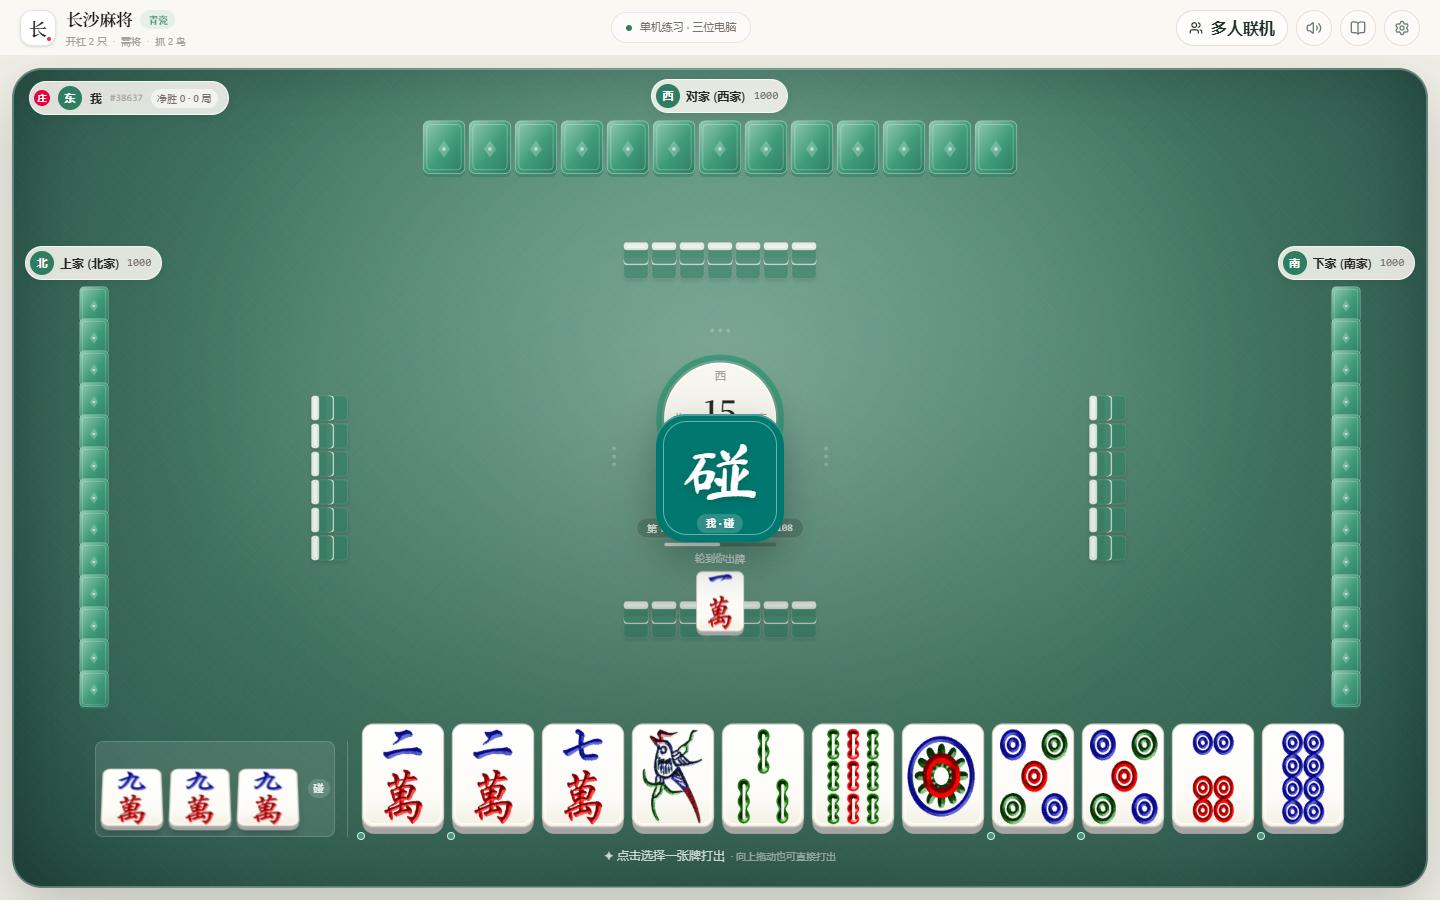
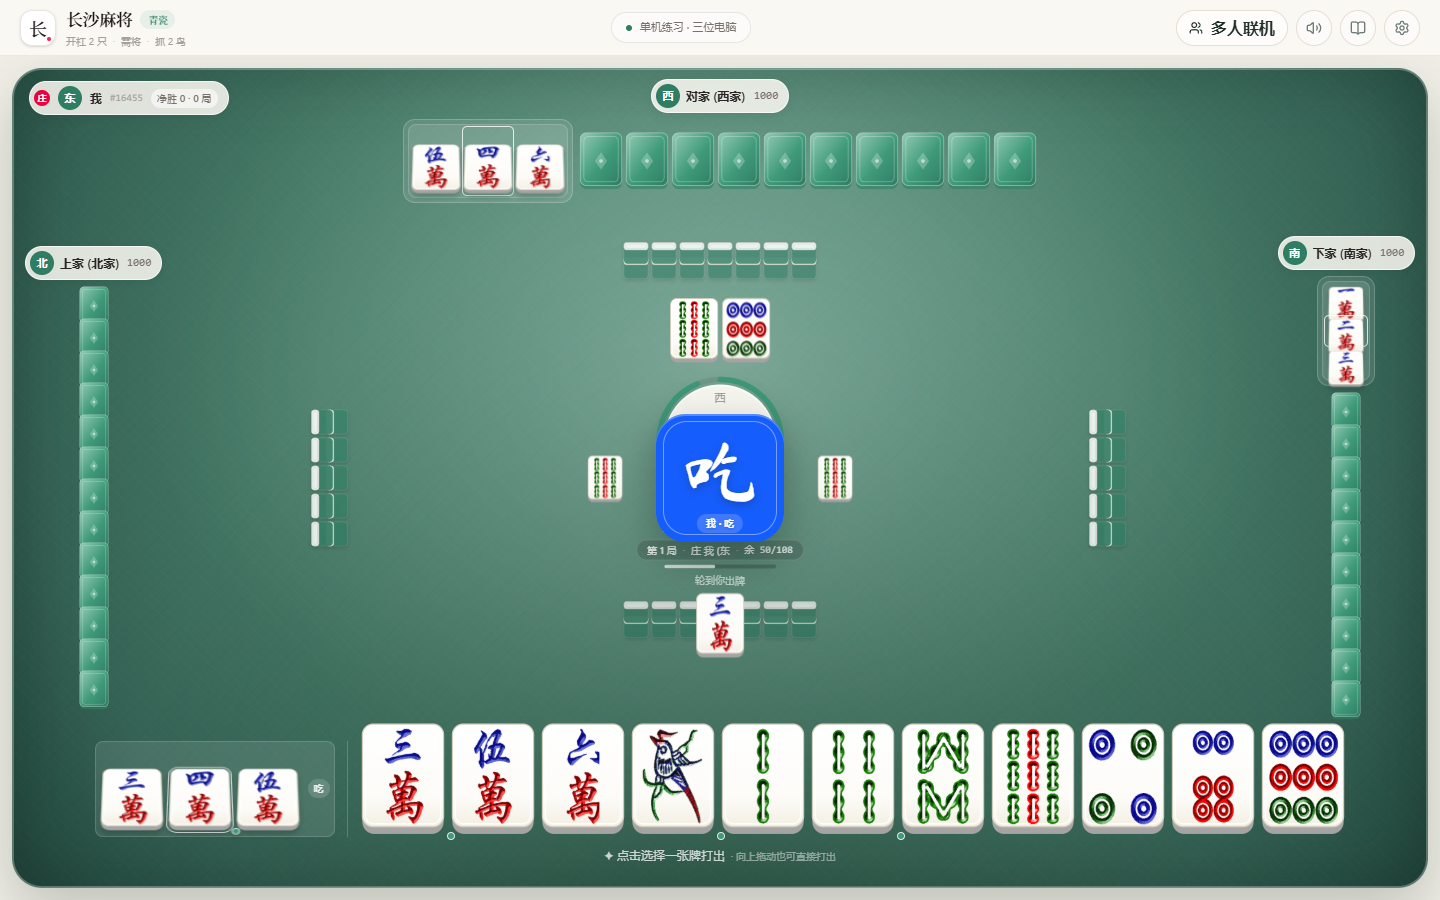
feat: enlarge action buttons and add 128px brush callouts

diff --git a/src/components/ActionControls.jsx b/src/components/ActionControls.jsx
@@ -3,14 +3,15 @@ import MahjongTile from './MahjongTile.jsx';
 import { sound } from '../utils/audio.js';
 
 const TONES = {
-  hu: 'text-rose-600',
-  gang: 'text-amber-600',
-  peng: 'text-[var(--color-jade-600)]',
-  chi: 'text-[var(--color-violet-600)]',
-  xi: 'text-rose-500'
+  hu: { text: 'text-rose-600', bg: 'bg-rose-50', ring: 'ring-rose-200' },
+  gang: { text: 'text-amber-700', bg: 'bg-amber-50', ring: 'ring-amber-200' },
+  peng: { text: 'text-teal-700', bg: 'bg-teal-50', ring: 'ring-teal-200' },
+  chi: { text: 'text-blue-700', bg: 'bg-blue-50', ring: 'ring-blue-200' },
+  xi: { text: 'text-fuchsia-600', bg: 'bg-fuchsia-50', ring: 'ring-fuchsia-200' }
 };
 
 function ActionKey({ char, label, tone, onClick, primary = false, ariaLabel }) {
+  const style = TONES[tone] || TONES.peng;
   return (
     <button
       type="button"
@@ -18,14 +19,14 @@ function ActionKey({ char, label, tone, onClick, primary = false, ariaLabel }) {
       aria-label={ariaLabel || label}
       className={`group relative flex shrink-0 flex-col items-center justify-center rounded-[22px] font-semibold transition-transform duration-150 hover:-translate-y-0.5 active:translate-y-0 active:scale-95 ${
         primary
-          ? 'h-[92px] w-[92px] bg-rose-600 text-white shadow-[0_16px_40px_rgba(190,60,50,0.45)] ring-4 ring-rose-200/70 sm:h-[116px] sm:w-[116px]'
-          : 'h-[72px] w-[72px] border border-stone-200 bg-white shadow-md sm:h-[92px] sm:w-[92px]'
+          ? 'h-[100px] w-[100px] bg-rose-600 text-white shadow-[0_18px_44px_rgba(190,60,50,0.5)] ring-4 ring-rose-200/70 sm:h-[124px] sm:w-[124px]'
+          : `${style.bg} h-[80px] w-[80px] ring-2 ${style.ring} shadow-md sm:h-[104px] sm:w-[104px]`
       }`}
     >
-      <span className={`font-brush leading-none ${primary ? 'text-[52px] sm:text-[66px]' : `text-[38px] sm:text-[48px] ${TONES[tone] || ''}`}`}>
+      <span className={`font-brush leading-none ${primary ? 'text-[56px] sm:text-[72px]' : `text-[42px] sm:text-[56px] ${style.text}`}`}>
         {char}
       </span>
-      <span className={`mt-0.5 text-[9px] font-bold tracking-[0.08em] ${primary ? 'text-white/80' : 'text-stone-400'}`}>
+      <span className={`mt-0.5 text-[9px] font-bold tracking-[0.08em] sm:text-[10px] ${primary ? 'text-white/80' : 'text-stone-400'}`}>
         {label}
       </span>
     </button>
